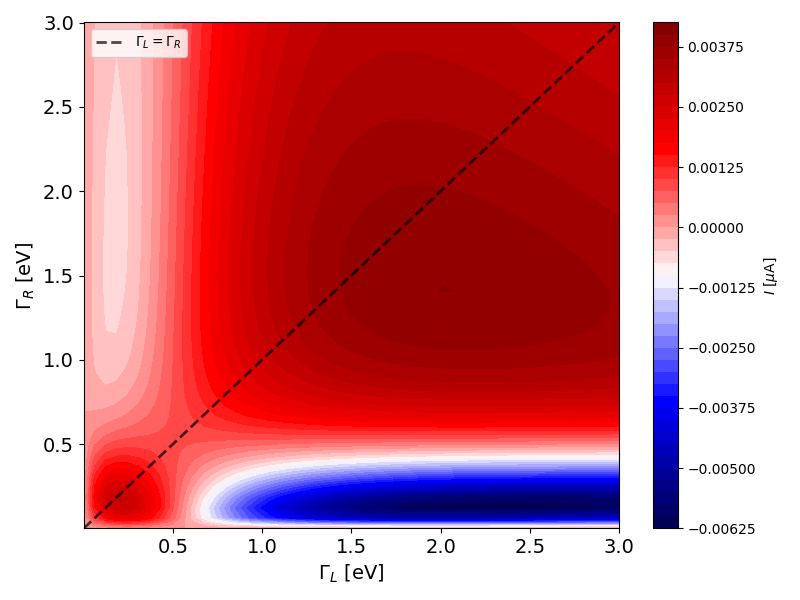
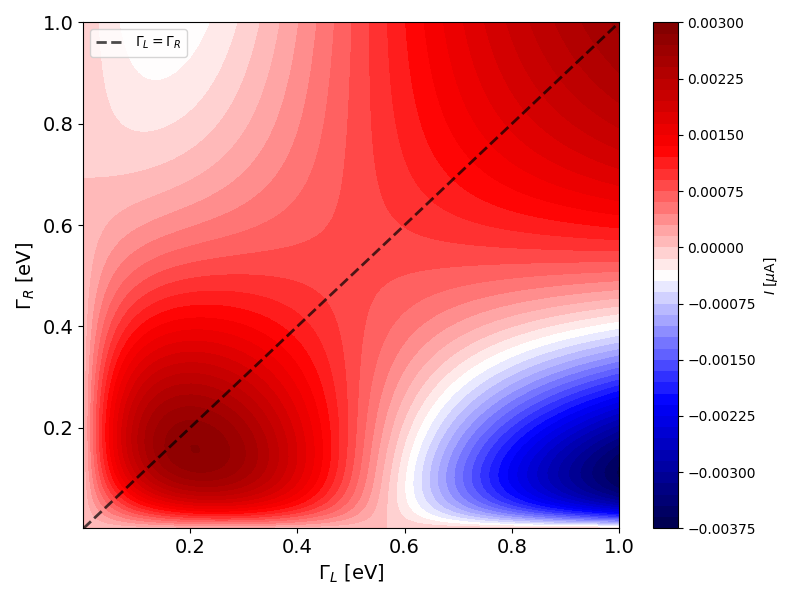
cutoff the results at 1 eV

diff --git a/MEFP_base.py b/MEFP_base.py
@@ -130,7 +130,7 @@ plt.tight_layout()
 plt.show()
 
 #case 2 - symmetrical
-Gamma_values = np.linspace(0.001, 6.0, 200)
+Gamma_values = np.linspace(0.001, 1.0, 100)
 currents_sym = np.zeros_like(Gamma_values)
 #trace
 for i, Gamma in enumerate(Gamma_values):
@@ -151,8 +151,8 @@ plt.show()
 
 #2D map
 #grid
-Gamma_L_range = np.linspace(0.001, 3.0, 50)
-Gamma_R_range = np.linspace(0.001, 3.0, 50)
+Gamma_L_range = np.linspace(0.001, 1.0, 100)
+Gamma_R_range = np.linspace(0.001, 1.0, 100)
 
 GL_grid, GR_grid = np.meshgrid(Gamma_L_range, Gamma_R_range)
 current_2D = np.zeros_like(GL_grid)
@@ -169,7 +169,7 @@ contour = plt.contourf(GL_grid, GR_grid, current_2D, levels=50, cmap='seismic')
 plt.colorbar(contour, label=r"$I$ [$\mu\mathrm{A}$]")
 
 # dashed line to represent the Symmetric Case (Gamma_L = Gamma_R)
-plt.plot([0.001, 3.0], [0.001, 3.0], color='black', linewidth=2, linestyle='--', alpha=0.7, label=r"$\Gamma_L = \Gamma_R$")
+plt.plot([0.001, 1.0], [0.001, 1.0], color='black', linewidth=2, linestyle='--', alpha=0.7, label=r"$\Gamma_L = \Gamma_R$")
 # plt.title(r"current heat map vs coupling strength")
 plt.xticks(fontsize=14)
 plt.yticks(fontsize=14)
